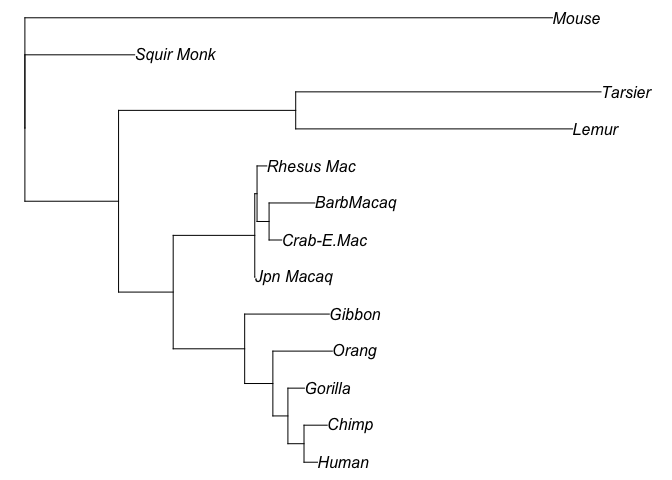
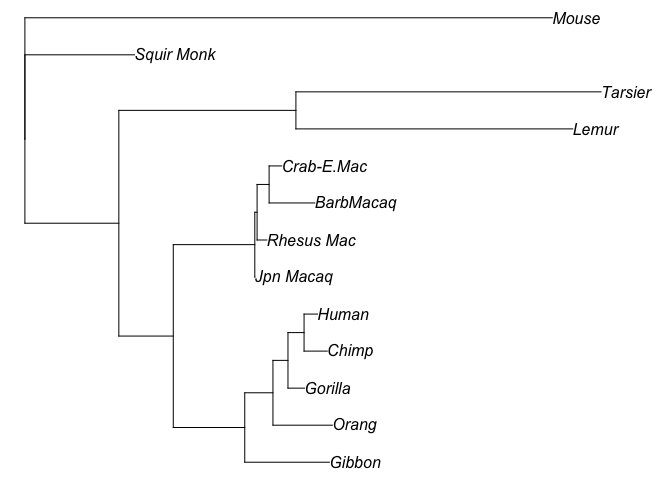
update assg

diff --git a/Lab1.md b/Lab1.md
@@ -163,19 +163,19 @@ The result is:
     fitHKY
 
     ## 
-    ##  loglikelihood: -2394.261 
+    ##  loglikelihood: -2394.26 
     ## 
     ## unconstrained loglikelihood: -1230.335 
     ## Discrete gamma model
     ## Number of rate categories: 4 
-    ## Shape parameter: 5.985961 
+    ## Shape parameter: 5.984631 
     ## 
     ## Rate matrix:
     ##          a        c        g        t
-    ## a  0.00000  1.00000 27.00659  1.00000
-    ## c  1.00000  0.00000  1.00000 27.00659
-    ## g 27.00659  1.00000  0.00000  1.00000
-    ## t  1.00000 27.00659  1.00000  0.00000
+    ## a  0.00000  1.00000 27.00915  1.00000
+    ## c  1.00000  0.00000  1.00000 27.00915
+    ## g 27.00915  1.00000  0.00000  1.00000
+    ## t  1.00000 27.00915  1.00000  0.00000
     ## 
     ## Base frequencies:  
     ## 0.4013194 0.3738494 0.04584645 0.1789847
@@ -256,7 +256,7 @@ original dataset [Wallace et al.,
 influenza A H5N1 hemagglutinin and neuraminidase gene sequences isolated
 from a variety of hosts 1996 - 2005 across sample locations.
 
-Read the publication and then make the following analyses:
+Read the publication, and then make the following analyses:
 
 1.  Use the R code that you have learnt to choose the “best” model for
     this data, and explain why you choose it. Please attach your R code
@@ -265,17 +265,29 @@ Read the publication and then make the following analyses:
 2.  Install the latest version of
     [RAxML](https://github.com/stamatak/standard-RAxML/tags), and create
     the maximum likelihood tree by using the model that you choose in
-    the 1st step. Please record your command to run the analysis, and
-    visualize the tree in the report.
+    the 1st step. You need to use the information provided in the
+    publication to specify the outgroup taxon/taxa. Please record your
+    command to run the analysis, and visualize the tree in the report.
 
     Tips: Use `-m` to define your model, and use `-#` or `-N` to specify
     multiple runs on distinct starting trees. It may take about several
     minutes for 10 runs on this data set using the single-threaded SSE3
-    version. You can plot the tree and colour the tips in R. But if you
-    prefer to use a software with GUI, we recommend
+    version. Use `-o` to specify the outgroup. More details are
+    available in the manual. You can plot the tree and colour the tips
+    in R. But if you prefer to use a software with GUI, we recommend
     [FigTree](http://tree.bio.ed.ac.uk/software/figtree/). The mapping
     file [locations.txt](locations.txt) can be used to colour the tips.
 
-3.  Write a reprot to discribe your analysis and explain the result, for
-    example, what are the model and parameters, what the tree tells us,
-    and so on.
+3.  Install another software
+    [TempEst](http://tree.bio.ed.ac.uk/software/tempest/) to investigate
+    the temporal signal at your ML tree. Then find the “best-fitting
+    root” and attach the visualized tree in the report. Please record
+    statistical results for both trees, the ML tree in step 2 and the
+    best-fitting tree, and also explain the implication of these
+    statistical results.
+
+    Tips: Click “Parse Date” and use “prefix” `_` to load years from
+    taxon labels into the program.
+
+4.  Write a full report to describe your analysis and explain the
+    result, including the required answers from previous steps.
